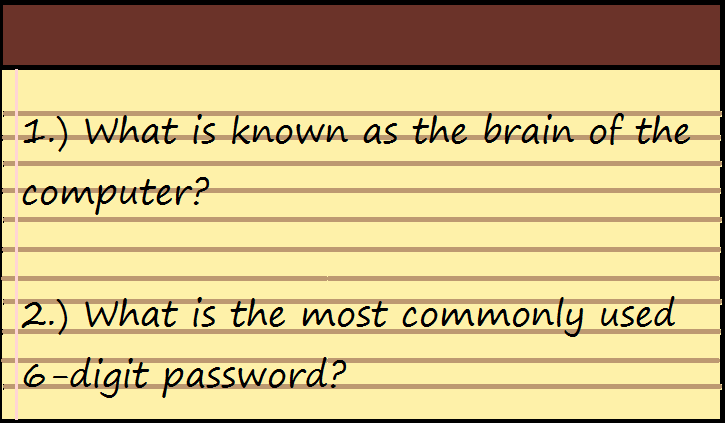
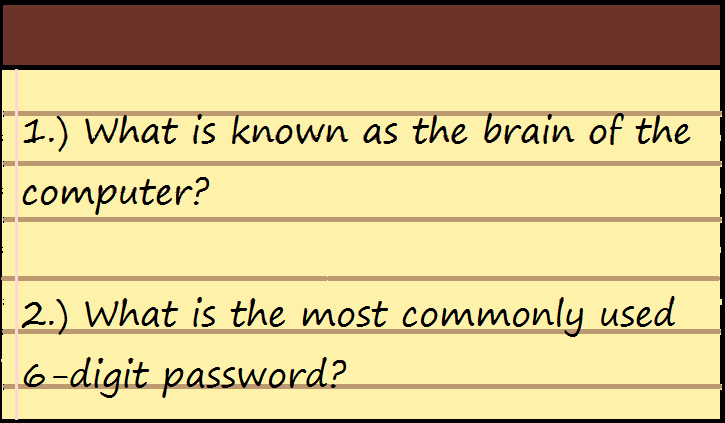
Made stuff bigger and readable

diff --git a/public/css/simulations.css b/public/css/simulations.css
@@ -213,10 +213,10 @@ p#hint {
 #notepad-full {
   position: fixed;
   display: none;
-  width: 30%;
+  width: 45%;
   height: auto;
-  top: 30%;
-  right: 20%;
+  top: 20%;
+  right: 15%;
   pointer-events: none;
 }
 
@@ -256,12 +256,13 @@ img.exit-notebook {
 #phone-full {
   position: fixed;
   display: none;
-  width: 20%;
+  width: 30%;
   height: auto;
-  top: 20%;
-  right: 30%;
+  top: 5%;
+  right: 25%;
   pointer-events: none;
   font-family: "Courier New", Courier, monospace;
+  font-size: 2vw;
   color: white;
 }
 
@@ -283,7 +284,7 @@ img.exit-phone {
   height: 80%;
   left: 5%;
   top: 7%;
-  font-size: 0.8vw;
+  font-size: 1.25vw;
   word-break: break-all;
   pointer-events: all;
 }

diff --git a/simulations/degrade.html b/simulations/degrade.html
@@ -20,7 +20,7 @@
             <div id="phone-full">
                 <img class="exit-phone" src="../public/assets/x.png" onclick="closePhone()">
                 <div class="screen">
-                    Hacker Terminal [Version 1.0.7]
+                    Hacker Terminal [Version 1.1.0]
                     <br>
                     (c) 2020 Zach Berritt. 
                     <br>
